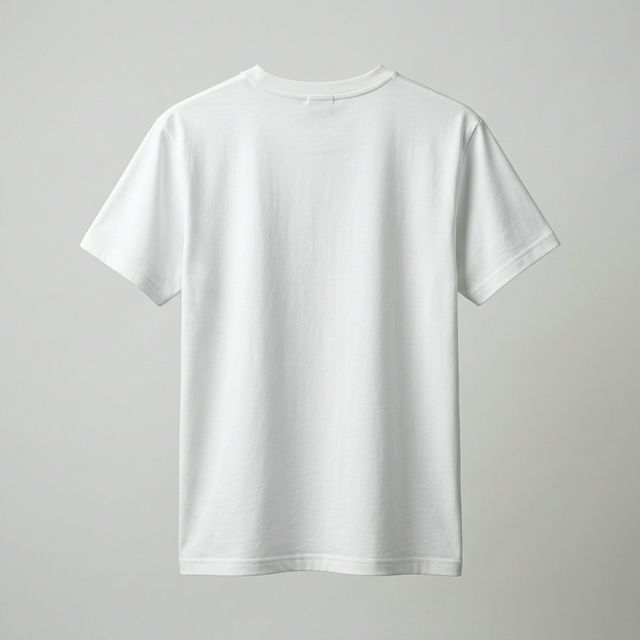
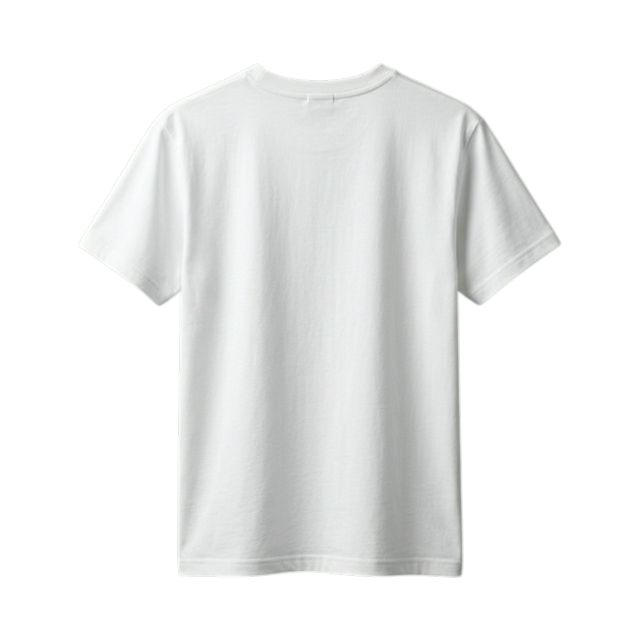
Updated curated lib and white tshirt nobg

diff --git a/frontend/styles.css b/frontend/styles.css
@@ -152,19 +152,22 @@ h3,
 }
 
 @media (max-width: 900px) {
+
   /* Switch to Flexbox */
   .canvas-inner {
     display: flex;
     flex-direction: column;
   }
-  
+
   /* The visual preview stays constant at the top */
   .canvas-visual {
     order: 1;
     position: sticky;
-    top: 57px; /* Matches sticky header height */
+    top: 57px;
+    /* Matches sticky header height */
     z-index: 10;
-    width: calc(100% + 32px); /* Stretch to edges perfectly */
+    width: calc(100% + 32px);
+    /* Stretch to edges perfectly */
     margin-left: -16px;
     margin-right: -16px;
     padding-left: 16px;
@@ -172,7 +175,8 @@ h3,
     margin-bottom: 24px;
     padding-top: 4px;
     padding-bottom: 24px;
-    background-color: rgba(249, 250, 251, 0.82); /* Glass effect */
+    background-color: rgba(249, 250, 251, 0.82);
+    /* Glass effect */
     backdrop-filter: blur(12px);
     -webkit-backdrop-filter: blur(12px);
     border-bottom: 1px solid rgba(229, 231, 235, 0.7);
@@ -181,42 +185,66 @@ h3,
   /* The controls flow below it and scroll naturally with the page */
   .canvas-copy {
     order: 2;
-    display: flex; 
+    display: flex;
     flex-direction: column;
   }
 
   /* Text and element alignment for mobile */
-  .hero-heading { font-size: 2rem; text-align: center; }
-  .hero-subcopy { font-size: 0.95rem; margin-bottom: 16px; text-align: center; }
-  .color-palette { margin-bottom: 24px; justify-content: center; width: 100%; }
-  .prompt-shell { width: 100%; }
-  #buy-now-btn { width: 100%; margin-top: 12px; }
+  .hero-heading {
+    font-size: 2rem;
+    text-align: center;
+  }
+
+  .hero-subcopy {
+    font-size: 0.95rem;
+    margin-bottom: 16px;
+    text-align: center;
+  }
+
+  .color-palette {
+    margin-bottom: 24px;
+    justify-content: center;
+    width: 100%;
+  }
+
+  .prompt-shell {
+    width: 100%;
+  }
+
+  #buy-now-btn {
+    width: 100%;
+    margin-top: 12px;
+  }
 
   /* Fix T-shirt and Canvas sizing for small screens */
   .tshirt-shell {
-    margin-top: 0; 
+    margin-top: 0;
     max-width: 100%;
   }
+
   .design-container {
     width: 160px;
     height: 160px;
   }
-  
+
   /* Maximize screen real estate by reducing paddings */
   .page-main {
     padding: 16px 12px 32px;
   }
+
   .canvas-section {
     padding: 16px 16px 24px;
   }
 
   /* Clean up the header to prevent text overlapping */
   .brand-tagline {
-    display: none; 
+    display: none;
   }
+
   .nav-main {
     gap: 12px;
   }
+
   .nav-link {
     font-size: 0.8rem;
   }
@@ -243,7 +271,7 @@ h3,
 
 .prompt-row {
   display: flex;
-  flex-direction: column; 
+  flex-direction: column;
   gap: 12px;
   align-items: stretch;
 }
@@ -488,7 +516,7 @@ h3,
   display: none;
   z-index: 50;
   border-radius: 50%;
-  box-shadow: 0 0 4px rgba(0,0,0,0.3);
+  box-shadow: 0 0 4px rgba(0, 0, 0, 0.3);
 }
 
 .design-container:hover .resize-handle,
@@ -514,7 +542,7 @@ h3,
   align-items: center;
   justify-content: center;
   z-index: 50;
-  box-shadow: 0 2px 8px rgba(0,0,0,0.2);
+  box-shadow: 0 2px 8px rgba(0, 0, 0, 0.2);
   transition: background-color 0.16s ease, transform 0.08s ease;
   padding: 0;
 }
@@ -682,6 +710,34 @@ h3,
   text-decoration: underline;
 }
 
+/* Inspiration Button */
+.btn-inspiration {
+  background-color: #7993a3;
+  color: #121626e6;
+  font-size: 0.7rem;
+  font-weight: 700;
+  text-transform: uppercase;
+  letter-spacing: 0.04em;
+  padding: 6px 16px;
+  border-radius: 999px;
+  border: none;
+  display: inline-flex;
+  align-items: center;
+  gap: 6px;
+  cursor: pointer;
+  transition: background-color 0.2s ease, transform 0.06s ease;
+  box-shadow: 0 2px 8px rgba(18, 22, 38, 0.15);
+}
+
+.btn-inspiration:hover {
+  background-color: #121626e6;
+  transform: translateY(-1px);
+}
+
+.btn-inspiration:active {
+  transform: translateY(0);
+}
+
 /* Archives and Orders Modals */
 .archives-grid {
   display: grid;
@@ -707,7 +763,7 @@ h3,
   border: 1px solid #e5e7eb;
   cursor: pointer;
   transition: transform 0.2s ease, box-shadow 0.2s ease, border-color 0.2s ease;
-  box-shadow: 0 2px 4px rgba(0,0,0,0.02);
+  box-shadow: 0 2px 4px rgba(0, 0, 0, 0.02);
 }
 
 .archives-grid img:hover {
@@ -741,16 +797,72 @@ h3,
 .orders-list::-webkit-scrollbar {
   width: 6px;
 }
+
 .archives-grid::-webkit-scrollbar-track,
 .orders-list::-webkit-scrollbar-track {
   background: transparent;
 }
+
 .archives-grid::-webkit-scrollbar-thumb,
 .orders-list::-webkit-scrollbar-thumb {
   background: #d1d5db;
   border-radius: 999px;
 }
+
 .archives-grid::-webkit-scrollbar-thumb:hover,
 .orders-list::-webkit-scrollbar-thumb:hover {
   background: #9ca3af;
+}
+
+/* Inspiration Grid */
+.inspiration-grid {
+  display: grid;
+  grid-template-columns: repeat(2, 1fr);
+  gap: 16px;
+  max-height: 60vh;
+  overflow-y: auto;
+  padding: 4px;
+}
+
+@media (min-width: 600px) {
+  .inspiration-grid {
+    grid-template-columns: repeat(3, 1fr);
+  }
+}
+
+/* Card */
+.inspiration-card {
+  border: 1px solid #e5e7eb;
+  border-radius: 12px;
+  overflow: hidden;
+  cursor: pointer;
+  background: #fff;
+  display: flex;
+  flex-direction: column;
+  transition: all 0.2s ease;
+}
+
+.inspiration-card:hover {
+  transform: translateY(-4px);
+  box-shadow: 0 8px 24px rgba(0, 0, 0, 0.08);
+}
+
+/* Image */
+.inspiration-card img {
+  width: 100%;
+  aspect-ratio: 1/1;
+  object-fit: cover;
+}
+
+/* Prompt Text */
+.inspiration-card-prompt {
+  padding: 12px;
+  font-size: 0.75rem;
+  color: #4b5563;
+
+  display: -webkit-box;
+  -webkit-line-clamp: 3;
+  line-clamp: 3;
+  -webkit-box-orient: vertical;
+  overflow: hidden;
 }

diff --git a/frontend/app.js b/frontend/app.js
@@ -1,6 +1,25 @@
 // --- Configuration ---
 const API_BASE = '/api';
 
+const CURATED_INSPIRATION = [
+  {
+    prompt: "Minimalist sleepy cat next to coffee, warm tones",
+    url: "https://images.unsplash.com/photo-1513360371669-4adf3dd7dff8?w=400"
+  },
+  {
+    prompt: "Retro synthwave sunset grid, neon pink & blue",
+    url: "https://images.unsplash.com/photo-1618005182384-a83a8bd57fbe?w=400"
+  },
+  {
+    prompt: "Botanical monstera with gold geometry",
+    url: "https://images.unsplash.com/photo-1545241047-6083a36a4d00?w=400"
+  },
+  {
+    prompt: "Vintage mountain poster twilight pastel",
+    url: "https://images.unsplash.com/photo-1464822759023-fed622ff2c3b?w=400"
+  }
+];
+
 // --- T-shirt image maps ---
 const TSHIRT_FRONT_MAP = {
     '#1a1a1a': 'assets/black-tshirt.png',
@@ -84,7 +103,13 @@ const DOM = {
     closeOrdersBtn: document.getElementById('close-orders-btn'),
     ordersList: document.getElementById('orders-list'),
     emptyOrders: document.getElementById('empty-orders'),
-    shopNowBtn: document.getElementById('shop-now-btn')
+    shopNowBtn: document.getElementById('shop-now-btn'),
+
+    // Inspiration Gallery
+    inspirationBtn: document.getElementById('inspiration-btn'),
+    inspirationModal: document.getElementById('inspiration-modal'),
+    closeInspirationBtn: document.getElementById('close-inspiration-btn'),
+    inspirationGrid: document.getElementById('inspiration-grid')
 };
 
 // --- Helper: get current design for active side ---
@@ -179,7 +204,26 @@ function setupEventListeners() {
         if (e.target === DOM.ordersModal) {
             DOM.ordersModal.classList.add('hidden');
         }
+        if (DOM.inspirationModal && e.target === DOM.inspirationModal) {
+            DOM.inspirationModal.classList.add('hidden');
+        }
     });
+
+    // Inspiration Gallery
+    if (DOM.inspirationBtn) {
+        DOM.inspirationBtn.addEventListener('click', () => {
+            if (DOM.inspirationModal) {
+                DOM.inspirationModal.classList.remove('hidden');
+                renderInspiration();
+            }
+        });
+    }
+
+    if (DOM.closeInspirationBtn) {
+        DOM.closeInspirationBtn.addEventListener('click', () => {
+            if (DOM.inspirationModal) DOM.inspirationModal.classList.add('hidden');
+        });
+    }
 
     // Color buttons
     DOM.colorBtns.forEach(btn => {
@@ -222,6 +266,35 @@ function setupEventListeners() {
     if (DOM.buyNowBtn) {
         DOM.buyNowBtn.addEventListener('click', handleBuyNow);
     }
+}
+
+// --- Inspiration Gallery Function ---
+function renderInspiration() {
+    if (!DOM.inspirationGrid) return;
+    DOM.inspirationGrid.innerHTML = '';
+
+    CURATED_INSPIRATION.forEach(item => {
+        const card = document.createElement('div');
+        card.className = 'inspiration-card';
+
+        const img = document.createElement('img');
+        img.src = item.url;
+
+        const text = document.createElement('div');
+        text.className = 'inspiration-card-prompt';
+        text.textContent = `"${item.prompt}"`;
+
+        card.appendChild(img);
+        card.appendChild(text);
+
+        card.addEventListener('click', () => {
+            DOM.promptInput.value = item.prompt;
+            DOM.inspirationModal.classList.add('hidden');
+            DOM.promptInput.focus();
+        });
+
+        DOM.inspirationGrid.appendChild(card);
+    });
 }
 
 // --- Side Toggle Logic ---

diff --git a/frontend/index.html b/frontend/index.html
@@ -55,9 +55,15 @@
           </p>
 
           <div class="prompt-shell">
-            <label for="prompt-input" class="prompt-label">
-              Describe your design
-            </label>
+            <div style="display: flex; justify-content: space-between; align-items: center; margin-bottom: 8px;">
+              <label for="prompt-input" class="prompt-label" style="margin-bottom: 0;">
+                Describe your design
+              </label>
+              <button id="inspiration-btn" class="btn-inspiration">
+                <span style="font-size: 0.9rem;">✨</span>
+                <span>NEED INSPIRATION?</span>
+              </button>
+            </div>
             <div class="prompt-row">
               <textarea id="prompt-input" rows="3"
                 placeholder="Eg. A soft line-drawing of a coffee mug in warm brown ink"></textarea>
@@ -209,6 +215,20 @@
           </button>
         </p>
       </form>
+    </div>
+  </div>
+
+  <div id="inspiration-modal" class="modal-root hidden">
+    <div class="modal-backdrop"></div>
+    <div class="modal-panel" style="max-width: 680px;">
+      <div class="modal-header">
+        <h2 class="serif modal-title">Inspiration Gallery</h2>
+        <button id="close-inspiration-btn" class="icon-button">✕</button>
+      </div>
+      <p class="modal-subcopy">
+        Tap any design below to use its prompt.
+      </p>
+      <div id="inspiration-grid" class="inspiration-grid"></div>
     </div>
   </div>
 